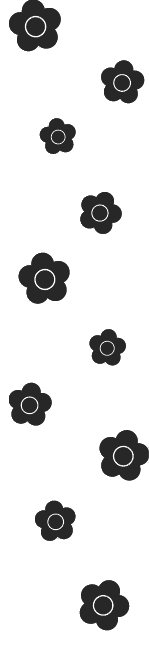
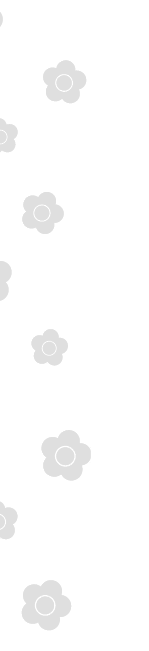
修改細節

diff --git a/index.css b/index.css
@@ -31,7 +31,7 @@ body {
     transform: translate(-50%, -50%);
 }
 .icon-white{
-    animation: loading 2.5s ease infinite;
+    animation: loading 3s infinite;
 }
 @keyframes loading {
     from{
@@ -124,8 +124,9 @@ svg {
 }
 @media screen and (min-width:720px) {
     .about{
-        background: url(./images/半透明.png) right bottom / 10% no-repeat, url(./images/半透明.png) right top / 10% no-repeat;
+        background: url(./images/半透明-left.png) right bottom / 10% no-repeat, url(./images/半透明-left.png) right top / 10% no-repeat;
         background-color: azure;
+
     }
     
 }
@@ -353,9 +354,10 @@ ul.train {
 .make-up{
     width: 100%;
     height: auto;
-    background: url(./images/landing-bg.jpeg) center center / cover;
+    background: url(./images/landing-bg-og.png) center center / cover;
     background-attachment: fixed;
     padding: 2.5rem 0;
+
 }
 .make-up h3{
     color: #ff7300;
@@ -363,10 +365,9 @@ ul.train {
 .product{
     flex-direction: column;
     margin: 10px auto;
-    background-color: rgba(255, 255, 255, 0.671);
+    background-color: rgba(255, 255, 255, 0.816);
     border-radius: 8px;
-    transition: .5s;
-
+    
 }
 
 .powder{
@@ -387,7 +388,7 @@ ul.train {
     text-align: center;
 }
 .product:hover .powder,.product:hover .eyebrow,.product:hover .eyeline,.product:hover .eyeshadow{
-    animation: swing 1.2s ease infinite;
+    animation: swing 1s infinite;
     transition: .5s;
 }
 @keyframes swing {
@@ -428,7 +429,7 @@ ul.train {
 }
 @media screen and (min-width:720px) {
     .store{
-        background: url(./images/白色.png) right bottom / 10% no-repeat;
+        background: url(./images/白色半透明.png) right bottom / 10% no-repeat;
         /* background-color: azure; */
     }
     

diff --git a/index.html b/index.html
@@ -16,11 +16,11 @@
 <body>
     <!-- LOADING畫面問題：
         1.影片可以跟著延遲播放嗎?-->
-    <!-- <div id="preloading">
+    <div id="preloading">
         <div id="status" class="icon-load">
             <img class="w-100 icon-white" src="./images/white icon 500.png" />
         </div>
-    </div>  -->
+    </div> 
     <!-- ------------------------LOADING結束------------------------- -->
     <nav>
         <div class="container">
@@ -81,7 +81,7 @@
     <div class="mq-video">
         <div id="mainVisual" style="display: block;">
             <div class="videoCover pc"></div>
-            <video class="video w-100" muted="" controls
+            <video class="video w-100" autoplay="" muted="" controls
                 data-src="bei-mei-guan-ma-li-guan-shi-shang-ge-ming-zhe-mary-quant-fashion-revolutionary-30cf.mp4"
                 src="bei-mei-guan-ma-li-guan-shi-shang-ge-ming-zhe-mary-quant-fashion-revolutionary-30cf.mp4"></video>
             <div class="src">
